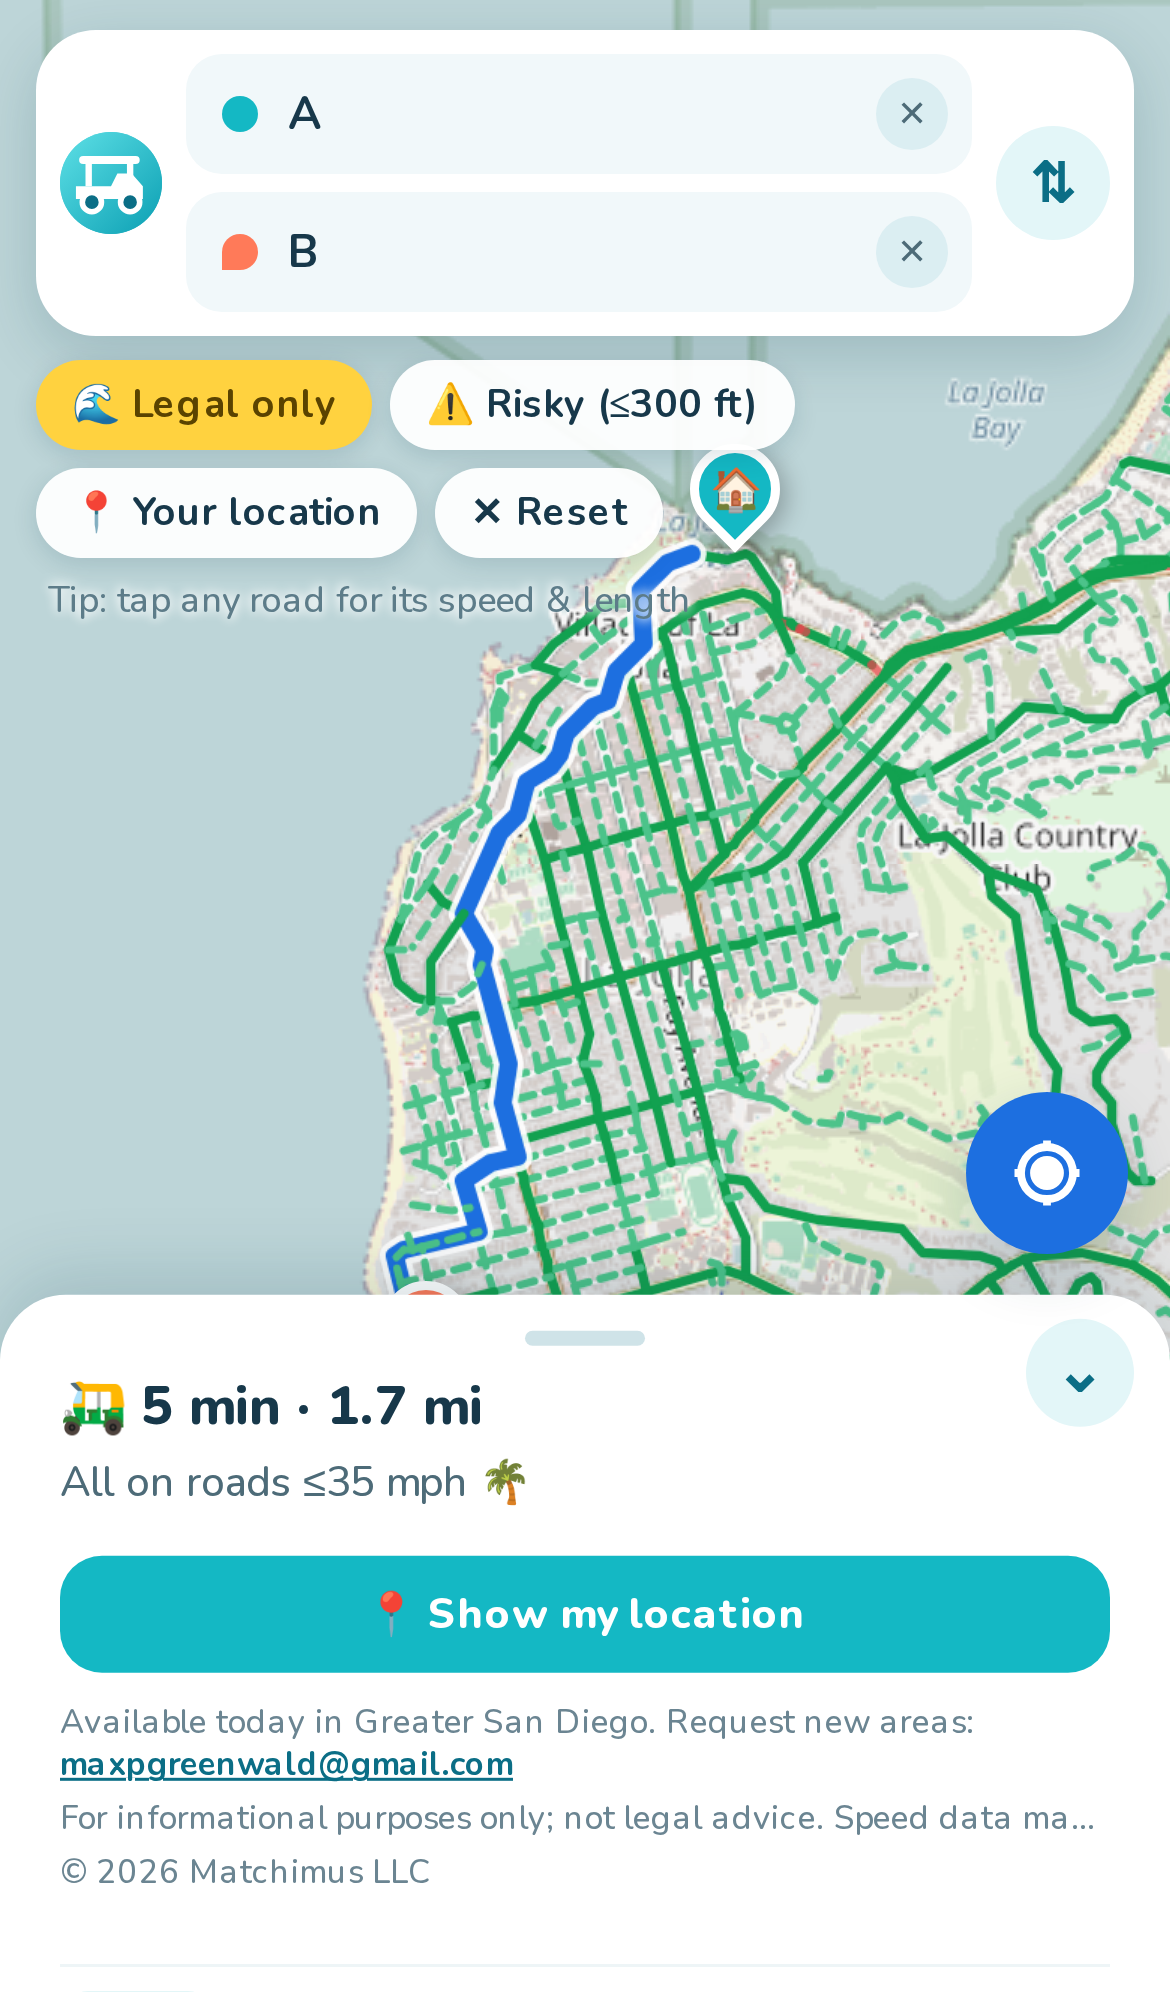
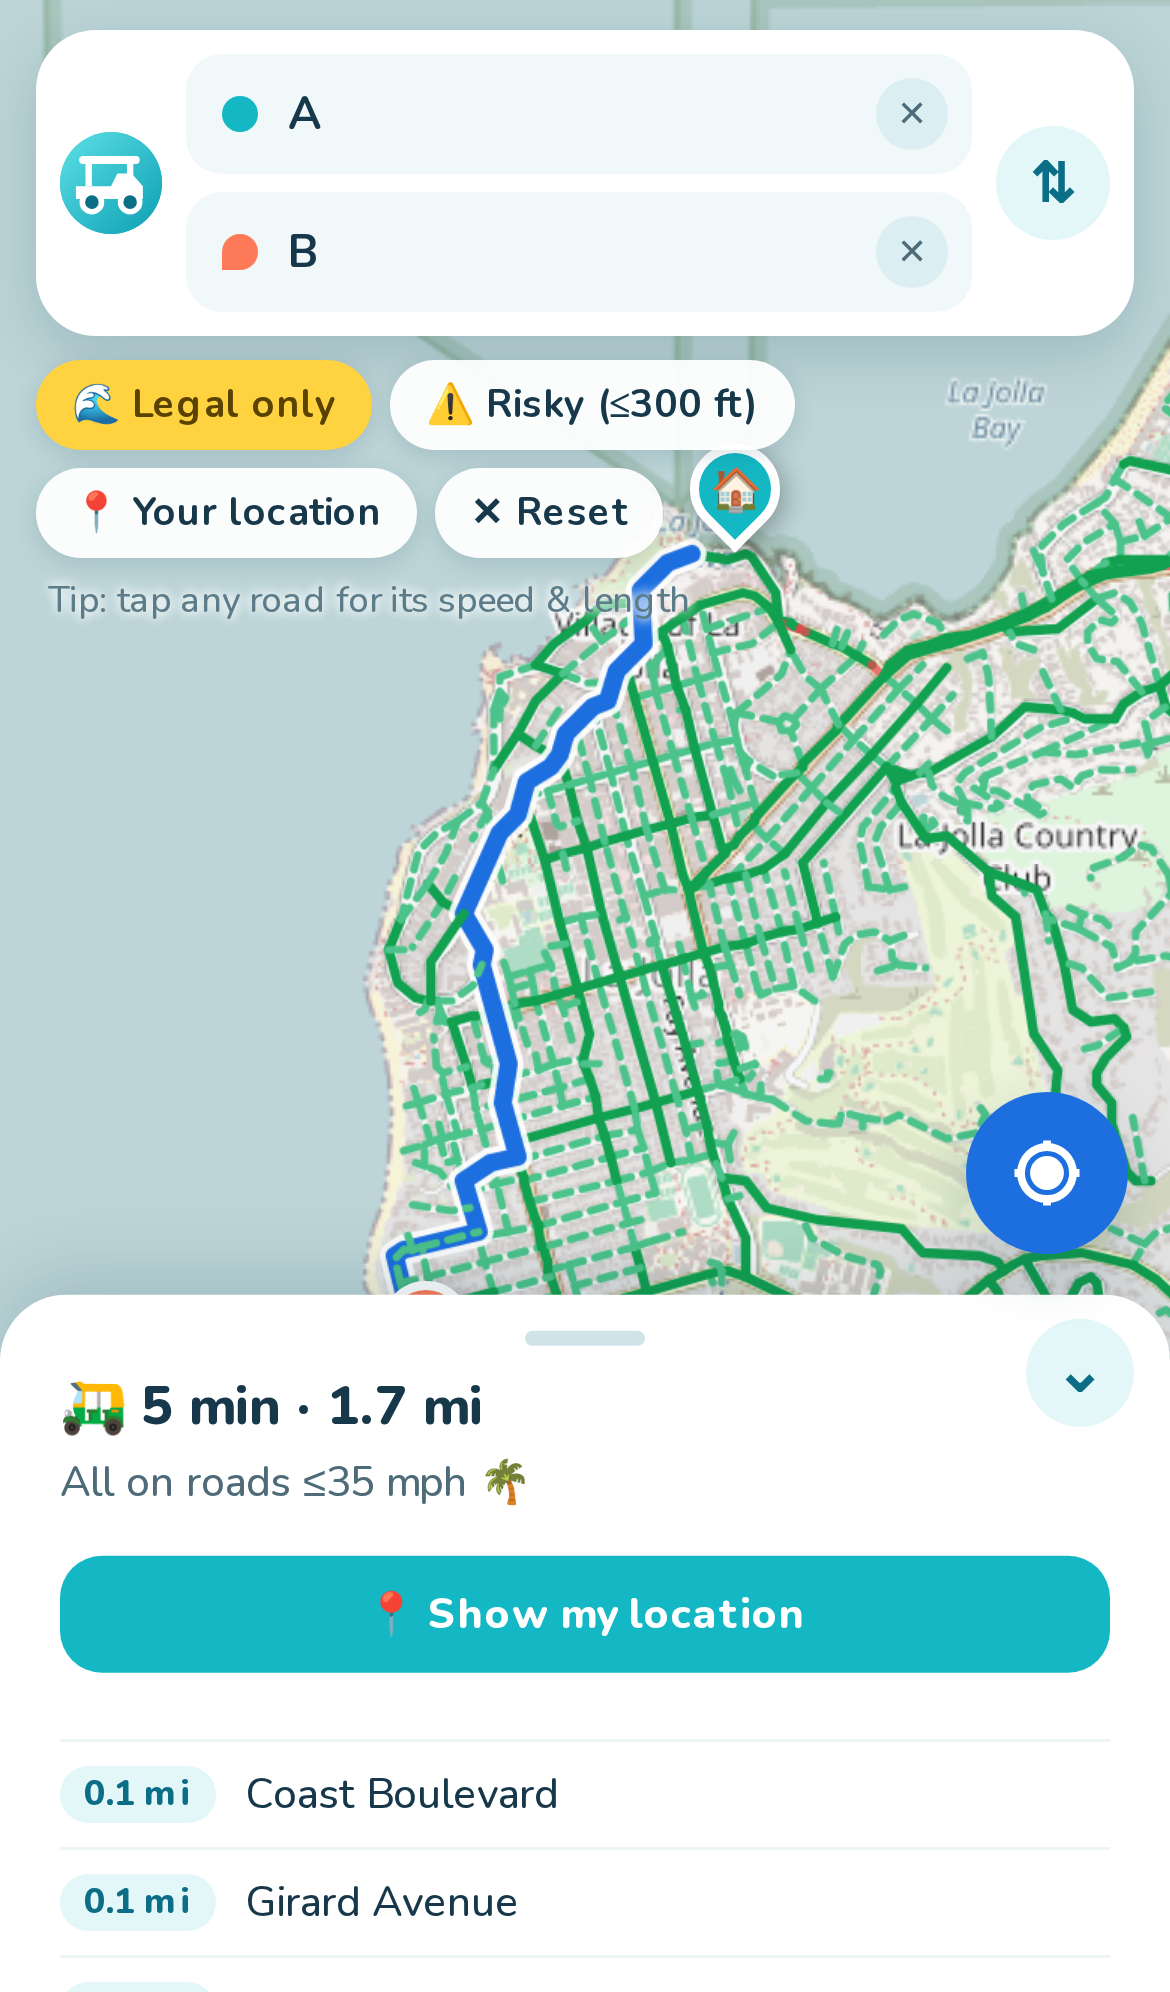
After routing, fly to the start point (z16) centered in the visible map area

diff --git a/public/app.js b/public/app.js
@@ -73,7 +73,15 @@ let routing=false;async function route(){$('title').innerHTML='<span class="spin
  $('title').innerHTML=r.stretches.length?`⚠ ${min} min · ${mi(r.dist)}`:`🛺 ${min} min · ${mi(r.dist)}`;
  $('sub').innerHTML=r.stretches.length?`Includes <b>${r.stretches.length}</b> risky stretch${r.stretches.length>1?'es':''} (${r.stretches.map(s=>ft(s.len)).join(', ')}) on faster roads.`:'All on roads ≤35 mph 🌴'+(da>150||db>150?' · snapped to nearest legal road':'');
  $('steps').innerHTML=r.steps.filter(s=>s.d>15).map(s=>`<div class="st"><span class="badge ${s.f?'y':''}">${s.f?ft(s.d):mi(s.d)}</span><span>${s.f?'⚠ Risky: ':''}${s.n}${s.f&&s.sp&&s.sp!=99?` (${s.sp} mph)`:''}</span></div>`).join('');
- setSnap('half');window.lastRoute={mi:+(r.dist/1609.34).toFixed(2),min,risky:r.stretches.map(s=>({road:s.name,ft:Math.round(s.len*3.281)}))};return r}
+ setSnap('half');focusStart();window.lastRoute={mi:+(r.dist/1609.34).toFixed(2),min,risky:r.stretches.map(s=>({road:s.name,ft:Math.round(s.len*3.281)}))};return r}
+// center the START point (z16) inside the map area left visible by the top card and the sheet/desktop card
+function focusStart(){if(!start)return;const sz=map.getSize(),Z=16,top=$('top').getBoundingClientRect(),sh=$('sheet').getBoundingClientRect();
+ let x0=0,x1=sz.x,y0=top.bottom,y1=sz.y;
+ if(DESK())x0=Math.max(top.right,sh.right);else y1=Math.min(sz.y,sh.top);
+ if(y1-y0<80){y0=0;y1=sz.y}
+ const want=L.point((x0+x1)/2,(y0+y1)/2),off=want.subtract(sz.divideBy(2));
+ const c=map.unproject(map.project(start,Z).subtract(off),Z);window._focus={x:want.x,y:want.y};map.flyTo(c,Z,{duration:0.8})}
+window.focusStart=focusStart;
 const pinIcon=(c,e)=>L.divIcon({className:'',html:`<div class="pin" style="background:${c}"><span>${e}</span></div>`,iconSize:[30,30],iconAnchor:[15,30]});
 // ---- route state: From/To fields (Google-Maps style). A point is {ll,label,me}; me=true means live GPS ("Your location").
 let from=null,to=null,active=null; // active: field that the next map tap fills ('from'|'to'|null)

diff --git a/public/sw.js b/public/sw.js
@@ -1,4 +1,4 @@
-const C='gcm-v16';
+const C='gcm-v17';
 self.addEventListener('install',e=>self.skipWaiting());
 self.addEventListener('activate',e=>e.waitUntil(caches.keys().then(ks=>Promise.all(ks.filter(k=>k!==C).map(k=>caches.delete(k)))).then(()=>self.clients.claim())));
 self.addEventListener('fetch',e=>{if(e.request.method!=='GET')return;e.respondWith(fetch(e.request).then(r=>{if(r.ok){const c=r.clone();caches.open(C).then(x=>x.put(e.request,c))}return r}).catch(()=>caches.match(e.request)))});

diff --git a/scripts/test_focus.py b/scripts/test_focus.py
@@ -1,0 +1,15 @@
+"""After routing, the map flies to the START at z16, centered in the visible area (not under the sheet/card)."""
+from playwright.sync_api import sync_playwright
+fails=0
+with sync_playwright() as p:
+    b=p.chromium.launch()
+    for name,kw in [("mobile",p.devices["iPhone 13"]),("desktop",{"viewport":{"width":1440,"height":900}})]:
+        pg=b.new_page(**kw);pg.goto("http://localhost:8765/");pg.wait_for_function("window.ready===true",timeout=120000)
+        for a,c in [([32.8506,-117.2717],[32.8305,-117.2805]),([32.6990,-117.1696],[32.6828,-117.1789])]:
+            pg.evaluate("map.setView([32.9,-117.25],12);0");pg.wait_for_timeout(500)
+            pg.evaluate(f"testRoute({a},{c}).then(()=>0)");pg.wait_for_timeout(2000)
+            r=pg.evaluate(f"(()=>{{const p=map.latLngToContainerPoint({a}),t=document.getElementById('top').getBoundingClientRect(),s=document.getElementById('sheet').getBoundingClientRect();return {{z:map.getZoom(),x:Math.round(p.x),y:Math.round(p.y),topB:Math.round(t.bottom),sheetT:Math.round(s.top),cardR:Math.round(s.right)}}}})()")
+            ok=r['z']==16 and r['y']>r['topB'] and (r['y']<r['sheetT'] if name=="mobile" else r['x']>r['cardR'])
+            fails+=not ok;print("PASS" if ok else "FAIL",name,a,r)
+        pg.screenshot(path=f"/workspace/golfcart-maps/screenshot-focus-{name}.png")
+    print("RESULT","ALL PASS" if not fails else f"{fails} FAIL")
